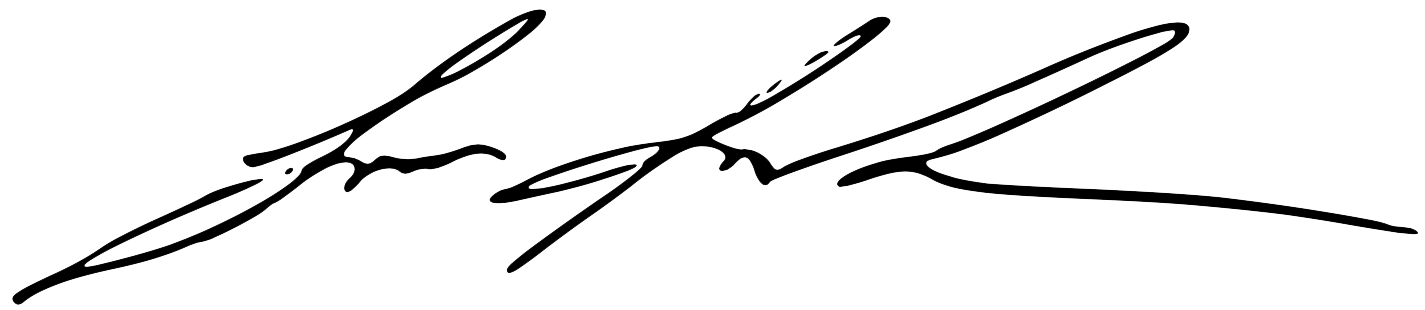
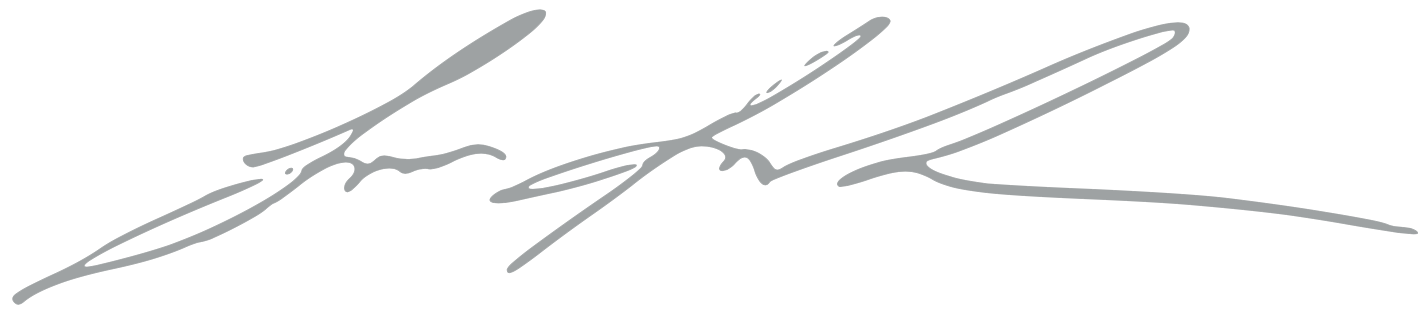
more tweaks
- mobile padding on top nav
- re-formatted play page
- change signature color

Changed region(s): [[0.3396, 0.0581, 1.0, 0.7548], [0.0, 0.029, 0.4014, 0.9871], [0.3396, 0.7258, 0.4014, 0.871]]

diff --git a/play.html b/play.html
@@ -22,18 +22,20 @@
 </div>
 
 <div class="content">
-<br><br><br><br><br>
+<div class="page_break"><br><br><br><br><br></div>
 <h1>Play</h1>
 <p>While my professional focus is on marketing, I have dabbled in creative projects and hobbies over the years. Some of these are smaller projects that I did for fun, and some of which are bigger endeavors that I'm actually quite proud of. This page is dedicated to hosting and sharing these ideas.</p>
 <div class="content_block_right">
 <a name="producing"><h5>Theatrical Producing</h5></a>
-<img src="img/pinkmilk.jpg"></img><p>As a theatre major at Northwestern University, I discovered the wonderful world of theatrical producing. After joining a few production teams in my freshman year, I wanted to learn more about the business side of entertainment, and pursued opportunities to learn more. I worked on engaging plays for young audiences, epic musicals and even a sprawling immersive outdoor stunt show. I loved producing because it brought me even closer to properties that I love than I thought possible - I could help achieve an incredible design idea, or find a way to communicate the unique vision for a show with our target audiences.</p>
+<img style="top:7%;" src="img/pinkmilk.png"></img><p>As a theatre major at Northwestern University, I discovered the wonderful world of theatrical producing. After joining a few production teams in my freshman year, I wanted to learn more about the business side of entertainment, and pursued opportunities to learn more. I worked on engaging plays for young audiences, epic musicals and even a sprawling immersive outdoor stunt show. I loved producing because it brought me even closer to properties that I love than I thought possible - I could help achieve an incredible design idea, or find a way to communicate the unique vision for a show with our target audiences.</p>
 <p>After graduating Northwestern, I continued producing a few one-off projects under the company name Feast Productions. As my career in marketing continued, Feast became inactive, but I'm incredibly proud to have been part of making a few wonderful theatrical visions a reality.</p>
 </div>
-<div class="content_block_left">
+<div class="content_block_right">
 <h5>Game Development</h5>
-<img src="img/unity.jpg"></img><p>I have always loved video games. A few years ago I was inspired to learn more about how they are made, and to start practicing using some of these tools myself. I took an Intro to Unity course and developed a prototype for a UFO Abduction game that I want to finish some day!</p>
+<img style="top:-21%;" src="img/unity.png"></img>
+<p>I have always loved video games. A few years ago I was inspired to learn more about how they are made, and to start practicing using some of these tools myself. I took an Intro to Unity course and developed a prototype for a UFO Abduction game that I want to finish some day!</p>
 <p>You can learn more about my experience in the class and check out my project here.</p>
+
 </div>
 <div class="content_block_right">
 <h5>Tabletop Roleplaying</h5>
@@ -41,6 +43,7 @@
 <p>DMing is some of the most fun I've had playing a game in my entire life. Part of the thrill comes from the fact that it's also one of the more challenging creative and organizational tasks I've assigned myself. In any one session I have to be on top of rules, story beats, character backgrounds as well as being highly socially and emotionally tuned in to what my players are attempting to do during the session.</p>
 <p>For my two most recent campaigns, I've been maintaining an Adventure Log in Google Slides, so that the players (and me) can be reminded of what has occurred in previous sessions. You can view the Adventure Log for my <a href="https://docs.google.com/presentation/d/1j-FypYHTRZrJhWAW3bD6bCWpDGG_FE7gKQSuQbKnj1o/edit?usp=sharing" target="blank">D&D Campaign here</a>, and my log for my <a href="https://docs.google.com/presentation/d/1Ucaflz82Y96X_qQ0A4BJIB0hF59rYwhWRllkMaI3BXo/edit#slide=id.p" target="blank">Star Wars RPG campaign here</a>.</p>
 </div>
+
 
 
 

diff --git a/notes.html b/notes.html
@@ -24,7 +24,6 @@
 
 <div class="content">
 <h1>Notes</h1>
-<br>
 <p>Welcome to the organizing structure for my random opinions and journal entries. I don't intend to keep this regularly updated, but every so often I have an experience that I think is worth documenting. Not just what happened, but what I thought about it, how I felt. I do this mostly for myself. The hope is that there are some of you out there who are like me (or perhaps nothing like me) who find something nice in my writing about various topics.</p>
 <p>I like playing video games, watching movies, seeing theatre, working on random creative projects and thinking about technology. You might find some thoughts related to those topics in the list below.</p>
 <p style="text-align:center;text-transform:uppercase;font-size:0.8em;"><a style="color:#9c9c9c;" hover="" href="notes/notes_all.html">View all notes</a></p>

diff --git a/css/main.css b/css/main.css
@@ -88,18 +88,18 @@ padding: 0px 0px 0px 0px;
 
 .content_block_right {
 position: relative;
-margin: 150px 0 200px 0;
+margin: 0 0 70px 0;
 left: 120px;
 width: 500px;
-text-align: center;
+text-align: left;
 }
 
 .content_block_right img {
 position: absolute;
-right: 105%;
-top: -7%;
-width: 530px;
-padding: 0px 10px 10px 0px;
+right: 110%;
+width: 300px;
+padding: 0 0 0 0;
+border-radius: 50%;
 }
 
 .content_block_left {
@@ -439,7 +439,7 @@ padding: 4em 0 8em 0;
   }
   
   .nav img {
-  padding-top: 3%;
+  padding-top: 8%;
   width: 60%;
   }
   
@@ -513,6 +513,10 @@ left: 22%;
 top: 0;
 width: 60%;
 padding: 0px 0px 0px 0px;
+}
+
+.page_break {
+display: none;
 }
 
 }

diff --git a/work.html b/work.html
@@ -24,7 +24,7 @@
 </div>
 
 <div class="content">
-<br><br><br><br><h1>Work</h1>
+<div class="page_break"><br><br><br><br></div><h1>Work</h1>
 <p>Lorem ipsum dolor sit amet, consectetur adipiscing elit, sed do eiusmod tempor incididunt ut labore et dolore magna aliqua. Ut enim ad minim veniam, quis nostrud exercitation ullamco laboris nisi ut aliquip ex ea commodo consequat. Duis aute irure dolor in reprehenderit in voluptate velit esse cillum dolore eu fugiat nulla pariatur. Excepteur sint occaecat cupidatat non proident, sunt in culpa qui officia deserunt mollit anim id est laborum.</p>
 <div class="work_block_right">
 <h5>SpotCo</h5>

diff --git a/index.html b/index.html
@@ -11,7 +11,7 @@
 <body>
 
 <div class="nav">
-<a href="index.html" style="text-decoration:none;"><img class="sig" src="img/sig.png" width=350px>
+<a href="index.html" style="text-decoration:none;"><img class="sig" src="img/sig_stroke.png" width=350px>
 <img class="logo" src="img/logo.png" width=340px></a>
 <div class="navlist">
 <a href="work.html">Work</a>

diff --git a/contact.html b/contact.html
@@ -22,8 +22,7 @@
 </div>
 
 <div class="content">
-<br>
-<br>
+<h1>Contact</h1>
 <p>If you want to talk about <h5 style="line-height:1.3em;font-size:1.5em;margin-top:-10px;">
 <a href="work.html" target="blank">Advertising</a>, 
 <a href="notes/2019/taking_a_session_to_relax.html" target="blank">Dungeons & Dragons</a>, 
